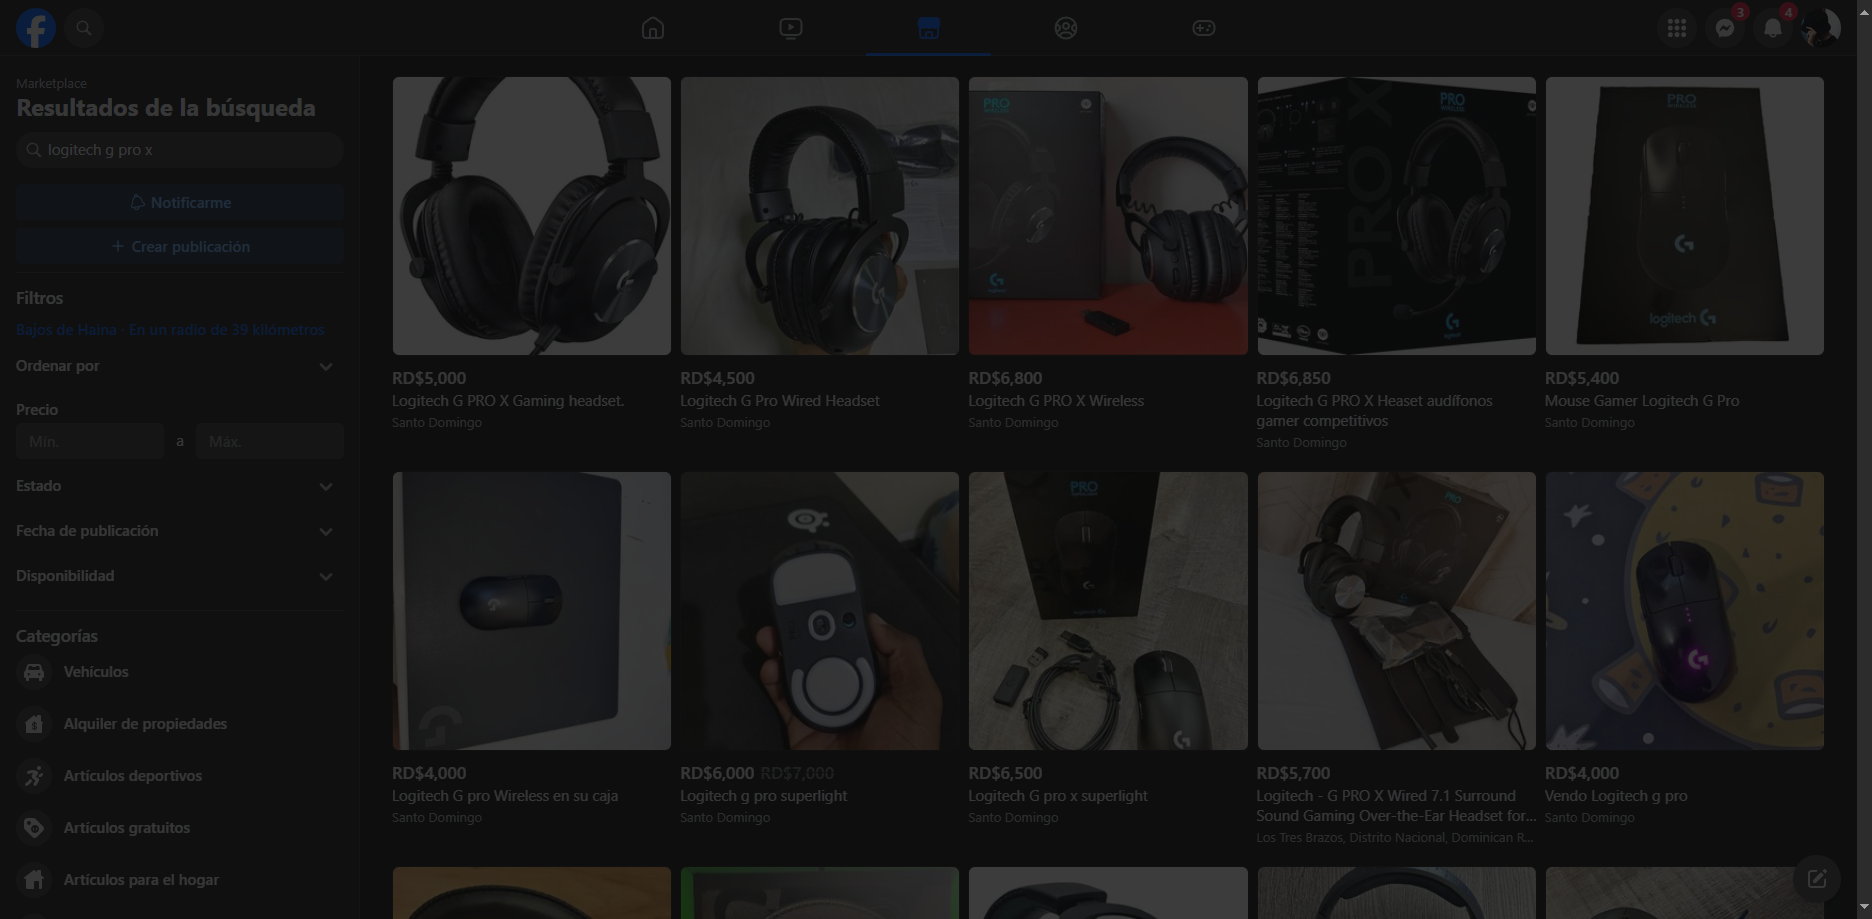
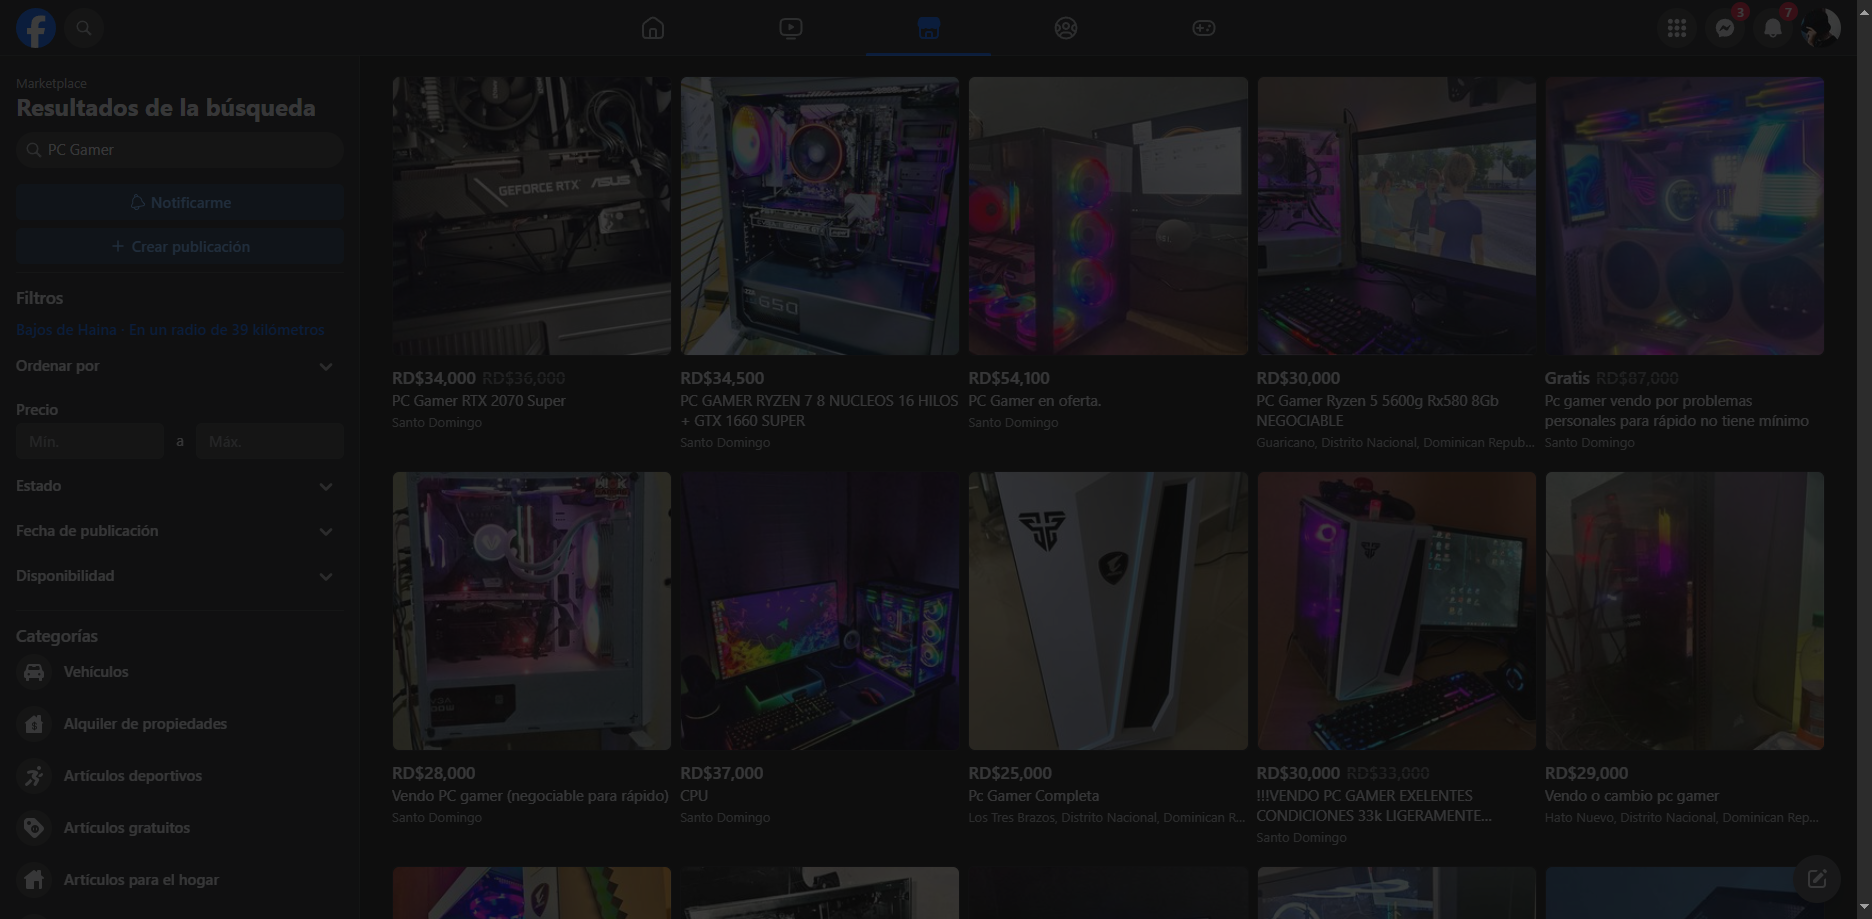
cambios

diff --git a/test_main.py b/test_main.py
@@ -59,8 +59,8 @@ try:
         EC.presence_of_element_located((By.XPATH, "//input[@aria-label='Buscar en Marketplace']"))
     )
 
-    # Escribir "logitech g pro x" en la barra de búsqueda 
-    search_bar.send_keys("logitech g pro x")
+    # Escribir "PC Gamer" en la barra de búsqueda 
+    search_bar.send_keys("PC Gamer")
     search_bar.send_keys(Keys.RETURN)
     time.sleep(5)
     driver.save_screenshot('C:/Users/wali/Desktop/automatizacion/Capturas/facebook_marketplace_search_logitech.png')
@@ -82,8 +82,8 @@ try:
         EC.presence_of_element_located((By.XPATH, "//input[@aria-label='Buscar en Marketplace']"))
     )
 
-    # Escribir "rtx 3060" en la barra de búsqueda y presionar Enter
-    search_bar.send_keys("rtx 3060")
+    # Escribir "PS5" en la barra de búsqueda y presionar Enter
+    search_bar.send_keys("PS5 Slim")
     search_bar.send_keys(Keys.RETURN)
     time.sleep(5)
     driver.save_screenshot('C:/Users/wali/Desktop/automatizacion/Capturas/facebook_marketplace_search_rtx3060.png')
